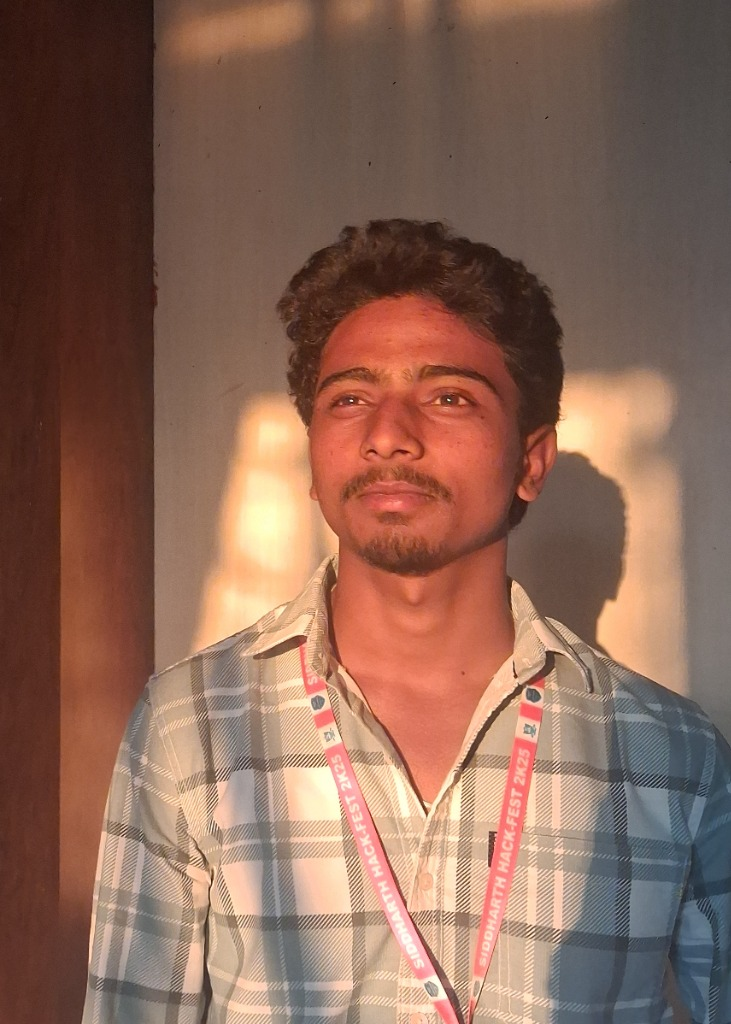
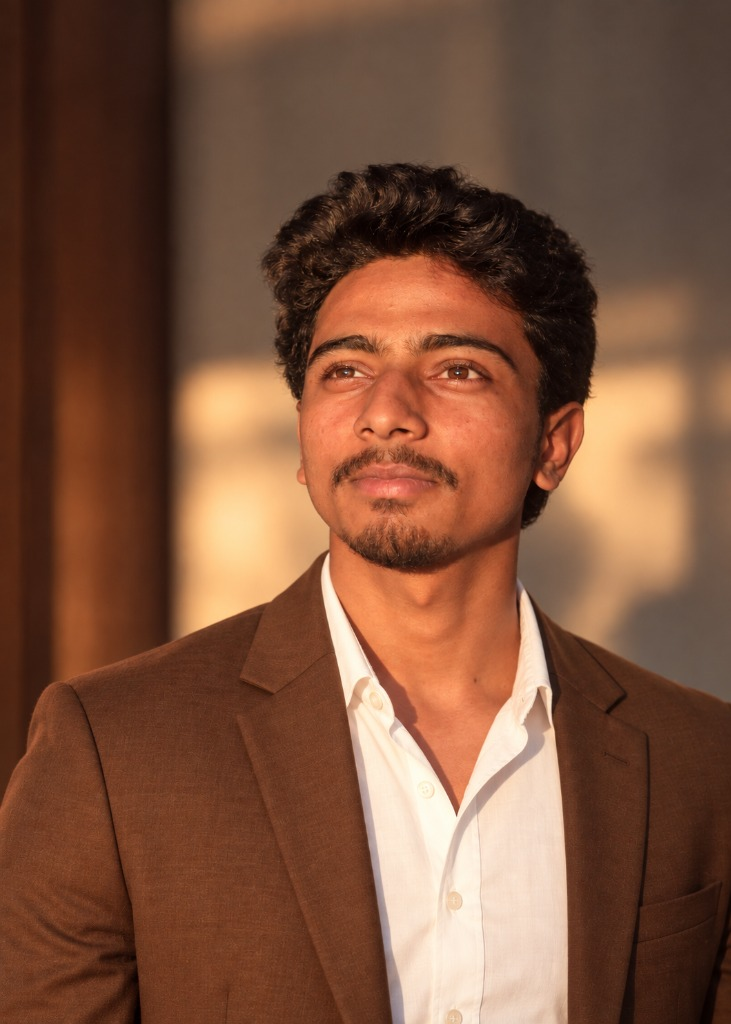
Updated content and hero img

diff --git a/src/components/header.jsx b/src/components/header.jsx
@@ -23,7 +23,7 @@ const Header = ({ onToggleTheme, theme }) => {
                 <span className="absolute inline-flex h-full w-full animate-ping rounded-full bg-[#83CE7E] opacity-75"></span>
                 <span className="relative inline-flex h-2 w-2 rounded-full bg-[#83CE7E]"></span>
               </span>
-              Available for Opportunities
+              Available for Engineering Roles & Projects
             </span>
             <span className="inline-flex items-center rounded-full border border-[var(--panel-border)] bg-[var(--pill-bg)] px-3 py-1 font-albert text-xs sm:text-sm font-medium tracking-wide text-[color:var(--text-muted)]">
               alias Yaswanth
@@ -38,16 +38,19 @@ const Header = ({ onToggleTheme, theme }) => {
               <span className="tracking-[0.1em] text-[var(--text-primary)]"> PATNAM</span>
             </h1>
 
-            <p className="font-albert text-lg font-semibold tracking-wide text-[var(--accent)] sm:text-xl lg:text-2xl">
-              Full Stack Developer & Creative Technologist
-            </p>
+            <div className="space-y-1 pt-1">
+              <p className="font-albert text-xl font-bold tracking-wide text-[var(--accent)] sm:text-2xl lg:text-[1.75rem]">
+                Software Engineer
+              </p>
+              <p className="font-albert text-sm font-semibold tracking-wider text-[color:var(--text-muted)] sm:text-base">
+                Systems, Core Fundamentals & Modern AI Workflows
+              </p>
+            </div>
           </div>
 
           {/* Value Pitch */}
           <p className="max-w-xl font-albert text-base leading-relaxed text-[color:var(--text-muted)] sm:text-lg sm:leading-8">
-            Turning creative wireframes into production-grade, resilient software.
-            Specializing in scalable Python/Django backends, relational databases, and
-            clean, reactive interfaces built with modern React.
+            Engineering resilient, high-performance software by bridging foundational computer science with modern, AI-integrated workflows. Driven by first-principles problem solving, continuous exploration, and building scalable technology that delivers real impact.
           </p>
 
           {/* CTAs */}
@@ -93,27 +96,27 @@ const Header = ({ onToggleTheme, theme }) => {
           {/* Quick Metrics Bar */}
           <div className="grid grid-cols-3 gap-3 border-t border-[var(--panel-border)] pt-5 text-left">
             <div>
-              <p className="font-sansation text-xl font-bold text-[var(--text-primary)] sm:text-2xl">
-                5+
+              <p className="font-sansation text-lg font-bold text-[var(--text-primary)] sm:text-xl lg:text-2xl">
+                First-Principles
               </p>
               <p className="font-albert text-xs sm:text-sm text-[color:var(--text-muted)]">
-                Web Applications
+                Systems & CS Foundations
               </p>
             </div>
             <div>
-              <p className="font-sansation text-xl font-bold text-[var(--accent)] sm:text-2xl">
-                Full-Stack
+              <p className="font-sansation text-lg font-bold text-[var(--accent)] sm:text-xl lg:text-2xl">
+                AI-Integrated
               </p>
               <p className="font-albert text-xs sm:text-sm text-[color:var(--text-muted)]">
-                Architecture Focus
+                Modern Workflows
               </p>
             </div>
             <div>
-              <p className="font-sansation text-xl font-bold text-[var(--text-primary)] sm:text-2xl">
-                100%
+              <p className="font-sansation text-lg font-bold text-[var(--text-primary)] sm:text-xl lg:text-2xl">
+                Full-Lifecycle
               </p>
               <p className="font-albert text-xs sm:text-sm text-[color:var(--text-muted)]">
-                Figma to Reality
+                Design to Production
               </p>
             </div>
           </div>
@@ -131,13 +134,12 @@ const Header = ({ onToggleTheme, theme }) => {
           />
 
           {/* Main Portrait Frame */}
-          <div className="group relative h-64 w-52 overflow-hidden rounded-[2.2rem] border border-[var(--panel-border)] bg-[var(--card-bg)] shadow-2xl transition-all duration-500 hover:scale-[1.02] hover:border-[var(--accent)] sm:h-80 sm:w-64 md:h-96 md:w-72 lg:h-[26rem] lg:w-[19.5rem]">
+          <div className="group relative h-72 w-56 overflow-hidden rounded-[2.2rem] border border-[var(--panel-border)] bg-[var(--card-bg)] shadow-2xl transition-all duration-500 hover:scale-[1.02] hover:border-[var(--accent)] sm:h-84 sm:w-64 md:h-[25rem] md:w-72 lg:h-[28rem] lg:w-[20.5rem]">
             <img
               src="/hero.jpg"
               alt="Yaswanth Babu Patnam"
-              className="h-full w-full object-cover object-[center_18%] transition-transform duration-700 ease-out group-hover:scale-105"
+              className="h-full w-full object-cover object-[center_16%] transition-transform duration-700 ease-out group-hover:scale-105"
               onError={(e) => {
-                // Fallback to profile.jpg if needed
                 if (!e.currentTarget.src.includes("profile.jpg")) {
                   e.currentTarget.src = "/profile.jpg";
                 }
@@ -153,8 +155,8 @@ const Header = ({ onToggleTheme, theme }) => {
                 <MapPin className="h-3.5 w-3.5 text-[#C8BD56]" />
                 <span>India</span>
               </div>
-              <span className="text-[11px] font-medium tracking-wide text-white/80">
-                Full-Stack Eng.
+              <span className="text-[11px] font-medium tracking-wide text-white/90">
+                Software Engineer
               </span>
             </div>
           </div>

diff --git a/src/components/about.jsx b/src/components/about.jsx
@@ -1,22 +1,22 @@
 import React from "react";
-import { Compass, Palette, Terminal, Sparkles } from "lucide-react";
+import { Cpu, Sparkles, Layers } from "lucide-react";
 
 export const About = () => {
   const pillars = [
     {
-      icon: <Compass className="h-5 w-5 text-[var(--accent)]" />,
-      title: "Mindset Over Title",
-      text: "Believing that being a developer is about an exploratory problem-solving mindset, curiosity, and continuous learning rather than just labels.",
+      icon: <Cpu className="h-5 w-5 text-[var(--accent)]" />,
+      title: "Foundational Architecture",
+      text: "Writing modular, clean, and maintainable code grounded in strong computer science fundamentals, data modeling, algorithmic efficiency, and scalable system design.",
     },
     {
-      icon: <Palette className="h-5 w-5 text-[var(--accent)]" />,
-      title: "Design-Driven Engineering",
-      text: "Crafting wireframes and design systems in Figma first, then implementing them into clean, performant, responsive code.",
+      icon: <Sparkles className="h-5 w-5 text-[var(--accent)]" />,
+      title: "AI-Integrated Workflows",
+      text: "Leveraging artificial intelligence, LLM APIs, and modern automated developer toolchains to accelerate engineering velocity and create intelligent, future-ready applications.",
     },
     {
-      icon: <Terminal className="h-5 w-5 text-[var(--accent)]" />,
-      title: "Full-Stack Reliability",
-      text: "Architecting solid RESTful APIs and PostgreSQL databases while maintaining smooth, modern component interactions on the frontend.",
+      icon: <Layers className="h-5 w-5 text-[var(--accent)]" />,
+      title: "End-to-End Ownership",
+      text: "Taking complete ownership from problem formulation and architectural design to pixel-precise interfaces, containerized deployment, and continuous performance tuning.",
     },
   ];
 
@@ -28,7 +28,7 @@ export const About = () => {
           <div className="flex items-center gap-2">
             <span className="h-2 w-2 rounded-full bg-[var(--accent)]" />
             <span className="font-albert text-xs sm:text-sm font-semibold tracking-widest uppercase text-[var(--accent)]">
-              01 // Biography
+              01 // Philosophy & Approach
             </span>
           </div>
           <h2 className="font-sansation text-2xl font-bold tracking-[0.1em] text-[var(--text-primary)] sm:text-3xl lg:text-4xl">
@@ -37,16 +37,25 @@ export const About = () => {
         </div>
 
         {/* Narrative */}
-        <div className="relative rounded-2xl border border-[var(--panel-border)] bg-[var(--card-bg)] p-6 sm:p-8">
-          <p className="font-albert text-base leading-relaxed text-[color:var(--text-muted)] sm:text-lg sm:leading-8">
-            Hey, I'm <strong className="font-semibold text-[var(--text-primary)]">Yaswanth</strong> — a full-stack developer who truly believes that being a developer is more about the mindset than just a title. I love creating things, exploring new ideas, and doing something different every time I start a project.
+        <div className="relative rounded-2xl border border-[var(--panel-border)] bg-[var(--card-bg)] p-6 sm:p-8 space-y-4">
+          <p className="font-albert text-lg font-semibold tracking-wide text-[var(--accent)] sm:text-xl">
+            "I don’t define myself by a specific framework or toolset — I define myself as an engineer who solves problems from the ground up."
           </p>
-          <p className="mt-4 font-albert text-base leading-relaxed text-[color:var(--text-muted)] sm:text-lg sm:leading-8">
-            I constantly try to upgrade myself, learn new things, and experiment with what's next — whether it's a new design approach, a fresh concept, or a new technology that excites me. I'm someone who enjoys designing, building, and thinking creatively. I find joy in turning ideas into something real.
+
+          <p className="font-albert text-base leading-relaxed text-[color:var(--text-muted)] sm:text-lg sm:leading-8">
+            My approach to software development stands on two pillars: <strong className="font-semibold text-[var(--text-primary)]">deep respect for fundamentals</strong> and a <strong className="font-semibold text-[var(--text-primary)]">relentless curiosity for what’s next</strong>.
+          </p>
+
+          <p className="font-albert text-base leading-relaxed text-[color:var(--text-muted)] sm:text-lg sm:leading-8">
+            On one hand, I care deeply about core engineering principles: clean architecture, data structures, predictable state, and building systems that scale reliably under load. On the other hand, the software landscape is evolving faster than ever. I actively integrate modern AI tools, automated pipelines, and intelligent API workflows into how I design, develop, and test software.
+          </p>
+
+          <p className="font-albert text-base leading-relaxed text-[color:var(--text-muted)] sm:text-lg sm:leading-8">
+            I treat every project as an opportunity to master new paradigms — whether that means digging into low-level mechanics, optimizing database query performance, or architecting intelligent, AI-augmented applications. For me, software engineering is a craft of daily learning, critical thinking, and turning complex ideas into dependable software.
           </p>
         </div>
 
-        {/* Philosophy Cards */}
+        {/* Engineering Pillars */}
         <div className="grid grid-cols-1 gap-4 sm:grid-cols-2 lg:grid-cols-3 sm:gap-6">
           {pillars.map((pillar, idx) => (
             <div

diff --git a/src/data/skills.js b/src/data/skills.js
@@ -1,65 +1,58 @@
 /**
  * Skills Data
- * Core technologies demonstrated across full-stack, AI-integrated,
- * frontend, API, and deployment projects.
+ * Categorized around core engineering foundations, system design,
+ * modern frontend engineering, and AI-integrated workflows.
  */
 
 export const skillCategories = [
   {
-    title: "Programming Languages",
+    title: "Core Languages & Systems Logic",
     description:
-      "Languages used for backend development, web applications, data handling, and client-side development.",
+      "Foundational languages applied to algorithms, business logic, asynchronous tasks, and database queries.",
     skills: [
-      { name: "Python", level: "Core", tag: "Backend & APIs" },
-      { name: "JavaScript", level: "Core", tag: "ES6+ / React" },
-      { name: "SQL", level: "Proficient", tag: "Relational Queries" },
-      { name: "HTML5 / CSS3", level: "Proficient", tag: "Responsive UI" },
+      { name: "Python", level: "Core", tag: "Algorithms & Systems" },
+      { name: "JavaScript", level: "Core", tag: "Modern ES6+" },
+      { name: "SQL", level: "Proficient", tag: "Query Optimization" },
+      { name: "HTML5 / CSS3", level: "Proficient", tag: "Semantic & Accessible" },
     ],
   },
-
   {
-    title: "Frameworks & Development",
+    title: "Backend Architecture & Data Modeling",
     description:
-      "Frameworks and libraries used to build full-stack applications, REST APIs, and responsive interfaces.",
+      "Designing scalable server-side systems, relational data structures, secure authentication, and high-performance APIs.",
     skills: [
-      { name: "Django", level: "Proficient", tag: "Backend Development" },
-      { name: "Django REST Framework", level: "Proficient", tag: "REST APIs" },
-      { name: "React.js", level: "Proficient", tag: "SPA & Components" },
-      { name: "Vite", level: "Proficient", tag: "Frontend Tooling" },
-      { name: "Tailwind CSS", level: "Proficient", tag: "Responsive Styling" },
-      { name: "Flask", level: "Intermediate", tag: "Python Web Apps" },
+      { name: "Django", level: "Advanced", tag: "Enterprise Backend" },
+      { name: "Django REST Framework", level: "Advanced", tag: "REST Architecture" },
+      { name: "PostgreSQL", level: "Proficient", tag: "Relational Schemas" },
+      { name: "MySQL", level: "Proficient", tag: "RDBMS" },
+      { name: "Redis", level: "Intermediate", tag: "In-Memory Caching" },
+      { name: "JWT & OAuth 2.0", level: "Proficient", tag: "Secure Auth" },
+      { name: "Flask", level: "Intermediate", tag: "Microservices" },
     ],
   },
-
   {
-    title: "Databases, APIs & Integrations",
+    title: "Frontend & UI Engineering",
     description:
-      "Databases and external services used for application data, authentication, automation, and AI-powered workflows.",
+      "Crafting performant client-side architectures, predictable state management, and fluid responsive design systems.",
     skills: [
-      { name: "PostgreSQL", level: "Proficient", tag: "Primary RDBMS" },
-      { name: "MySQL", level: "Proficient", tag: "Relational Data" },
-      { name: "Google Gemini API", level: "Proficient", tag: "AI Integration" },
-      { name: "Gmail API", level: "Proficient", tag: "Email Integration" },
-      { name: "Google OAuth 2.0", level: "Proficient", tag: "Authentication" },
-      { name: "JWT", level: "Proficient", tag: "API Authentication" },
-      { name: "Axios", level: "Proficient", tag: "HTTP Client" },
-      { name: "Pydantic", level: "Working", tag: "Data Validation" },
+      { name: "React.js", level: "Proficient", tag: "Component Architecture" },
+      { name: "Vite", level: "Proficient", tag: "Build Tooling" },
+      { name: "Tailwind CSS", level: "Proficient", tag: "Design Systems" },
+      { name: "Axios / Fetch", level: "Proficient", tag: "API Consumption" },
+      { name: "Figma", level: "Proficient", tag: "Wireframing & UI/UX" },
     ],
   },
-
   {
-    title: "Tools & Deployment",
+    title: "AI Workflows, DevOps & Modern Tooling",
     description:
-      "Tools used for development, API testing, version control, containerization, and production deployment.",
+      "Leveraging modern AI-augmented workflows, containerization, intelligent APIs, and automated deployments.",
     skills: [
-      { name: "Git & GitHub", level: "Proficient", tag: "Version Control" },
+      { name: "AI & LLM Integration", level: "Proficient", tag: "Google Gemini API" },
+      { name: "AI-Augmented Dev Workflows", level: "Proficient", tag: "Rapid Engineering" },
       { name: "Docker", level: "Proficient", tag: "Containerization" },
-      { name: "Postman", level: "Proficient", tag: "API Testing" },
-      { name: "Figma", level: "Proficient", tag: "UI/UX & Wireframes" },
-      { name: "Vercel", level: "Proficient", tag: "Frontend Deployment" },
-      { name: "Render", level: "Working", tag: "Backend Deployment" },
-      { name: "jsPDF", level: "Working", tag: "PDF Generation" },
-      { name: "html2canvas", level: "Working", tag: "PDF Rendering" },
+      { name: "Git & GitHub", level: "Proficient", tag: "Collaborative VCS" },
+      { name: "Postman", level: "Proficient", tag: "API Verification" },
+      { name: "Cloud Deployments", level: "Proficient", tag: "Render & Vercel" },
     ],
   },
 ];

diff --git a/src/components/skills.jsx b/src/components/skills.jsx
@@ -1,12 +1,12 @@
 import React from "react";
-import { Code2, Layout, Database, Wrench, Layers } from "lucide-react";
+import { Code2, Server, Layout, Sparkles, Layers } from "lucide-react";
 import { skillCategories } from "../data/skills";
 
 const categoryIcons = {
-  "Programming Languages": <Code2 className="h-5 w-5 text-[var(--accent)]" />,
-  "Frameworks & Frontend": <Layout className="h-5 w-5 text-[var(--accent)]" />,
-  "Databases & Caching": <Database className="h-5 w-5 text-[var(--accent)]" />,
-  "DevOps, Tools & Workflow": <Wrench className="h-5 w-5 text-[var(--accent)]" />,
+  "Core Languages & Systems Logic": <Code2 className="h-5 w-5 text-[var(--accent)]" />,
+  "Backend Architecture & Data Modeling": <Server className="h-5 w-5 text-[var(--accent)]" />,
+  "Frontend & UI Engineering": <Layout className="h-5 w-5 text-[var(--accent)]" />,
+  "AI Workflows, DevOps & Modern Tooling": <Sparkles className="h-5 w-5 text-[var(--accent)]" />,
 };
 
 const Skills = () => {
@@ -22,10 +22,10 @@ const Skills = () => {
             </span>
           </div>
           <h2 className="font-sansation text-2xl font-bold tracking-[0.1em] text-[var(--text-primary)] sm:text-3xl lg:text-4xl">
-            SKILLS & TOOLKIT
+            TECHNICAL TOOLKIT
           </h2>
           <p className="max-w-2xl font-albert text-base text-[color:var(--text-muted)]">
-            A versatile technical stack built around end-to-end web engineering, from data modeling and robust APIs to fluid client-side interfaces.
+            A balanced engineering foundation combining first-principles computer science, scalable backend architecture, and modern AI-augmented developer workflows.
           </p>
         </div>
 

diff --git a/index.html b/index.html
@@ -4,9 +4,9 @@
     <meta charset="UTF-8" />
     <link rel="icon" type="image/jpeg" href="/logo.jpg" />
     <meta name="viewport" content="width=device-width, initial-scale=1.0" />
-    <meta name="description" content="Portfolio of Yaswanth Babu Patnam — Full Stack Developer & Creative Technologist specializing in Python, Django, React, and scalable web applications." />
+    <meta name="description" content="Portfolio of Yaswanth Babu Patnam — Software Engineer specializing in core fundamentals, resilient system architecture, and modern AI-integrated workflows." />
     <meta name="theme-color" content="#070709" />
-    <title>Yaswanth Babu | Full Stack Developer</title>
+    <title>Yaswanth Babu Patnam | Software Engineer</title>
     <link rel="preconnect" href="https://fonts.googleapis.com" />
     <link rel="preconnect" href="https://fonts.gstatic.com" crossorigin />
   </head>

diff --git a/src/components/navbar.jsx b/src/components/navbar.jsx
@@ -154,7 +154,7 @@ const Navbar = ({ onToggleTheme, theme }) => {
               );
             })}
             <a
-              href="https://drive.google.com/file/d/1_1Bs-nRHi9SsyyDo30H6twvvQOsuHLq1/view?usp=sharing"
+              href="https://drive.google.com/file/d/1u3ZuTw8TgJV-jIqoZ33dI0udva9JVRz9/view?usp=sharing"
               target="_blank"
               rel="noopener noreferrer"
               onClick={() => setMobileMenuOpen(false)}

diff --git a/README.md b/README.md
@@ -1,4 +1,4 @@
-# 🌟 Yaswanth Babu Patnam |  Portfolio
+# 🌟 Yaswanth Babu Patnam | Developer Portfolio
 
 <div align="center">
 
@@ -7,8 +7,8 @@
 [![Tailwind CSS](https://img.shields.io/badge/Tailwind_CSS-3.3.0-38B2AC?style=for-the-badge&logo=tailwind-css&logoColor=white)](https://tailwindcss.com/)
 [![License: MIT](https://img.shields.io/badge/License-MIT-yellow.svg?style=for-the-badge)](https://opensource.org/licenses/MIT)
 
-**A high-aesthetic, modern, responsive portfolio engineered with React, Tailwind CSS, and custom glassmorphism.**  
-Designed in Figma wireframes and brought to life with smooth micro-interactions, dark/light modes, and effortless project management.
+**A modern, high-aesthetic developer portfolio built with React.js, Tailwind CSS, and Vite.**  
+Features bespoke glassmorphism, fluid micro-interactions, dynamic dark/light modes, and effortless project management.
 
 [View Live Portfolio](https://findit-bice.vercel.app/) · [Report Bug](https://github.com/Yaswanthpatnam/portfolio/issues) · [Request Feature](https://github.com/Yaswanthpatnam/portfolio/issues)
 
@@ -152,7 +152,7 @@ portfolio/
 ## 👨💻 Author
 
 **Yaswanth Babu Patnam**
-- **Role**: Full Stack Developer & Creative Technologist
+- **Role**: Software Engineer
 - **GitHub**: [@Yaswanthpatnam](https://github.com/Yaswanthpatnam)
 - **LinkedIn**: [Yaswanth Patnam](https://www.linkedin.com/in/yaswanth-patnam-2aa28b340/)
 - **Email**: [patnamyaswanth79@gmail.com](mailto:patnamyaswanth79@gmail.com)
